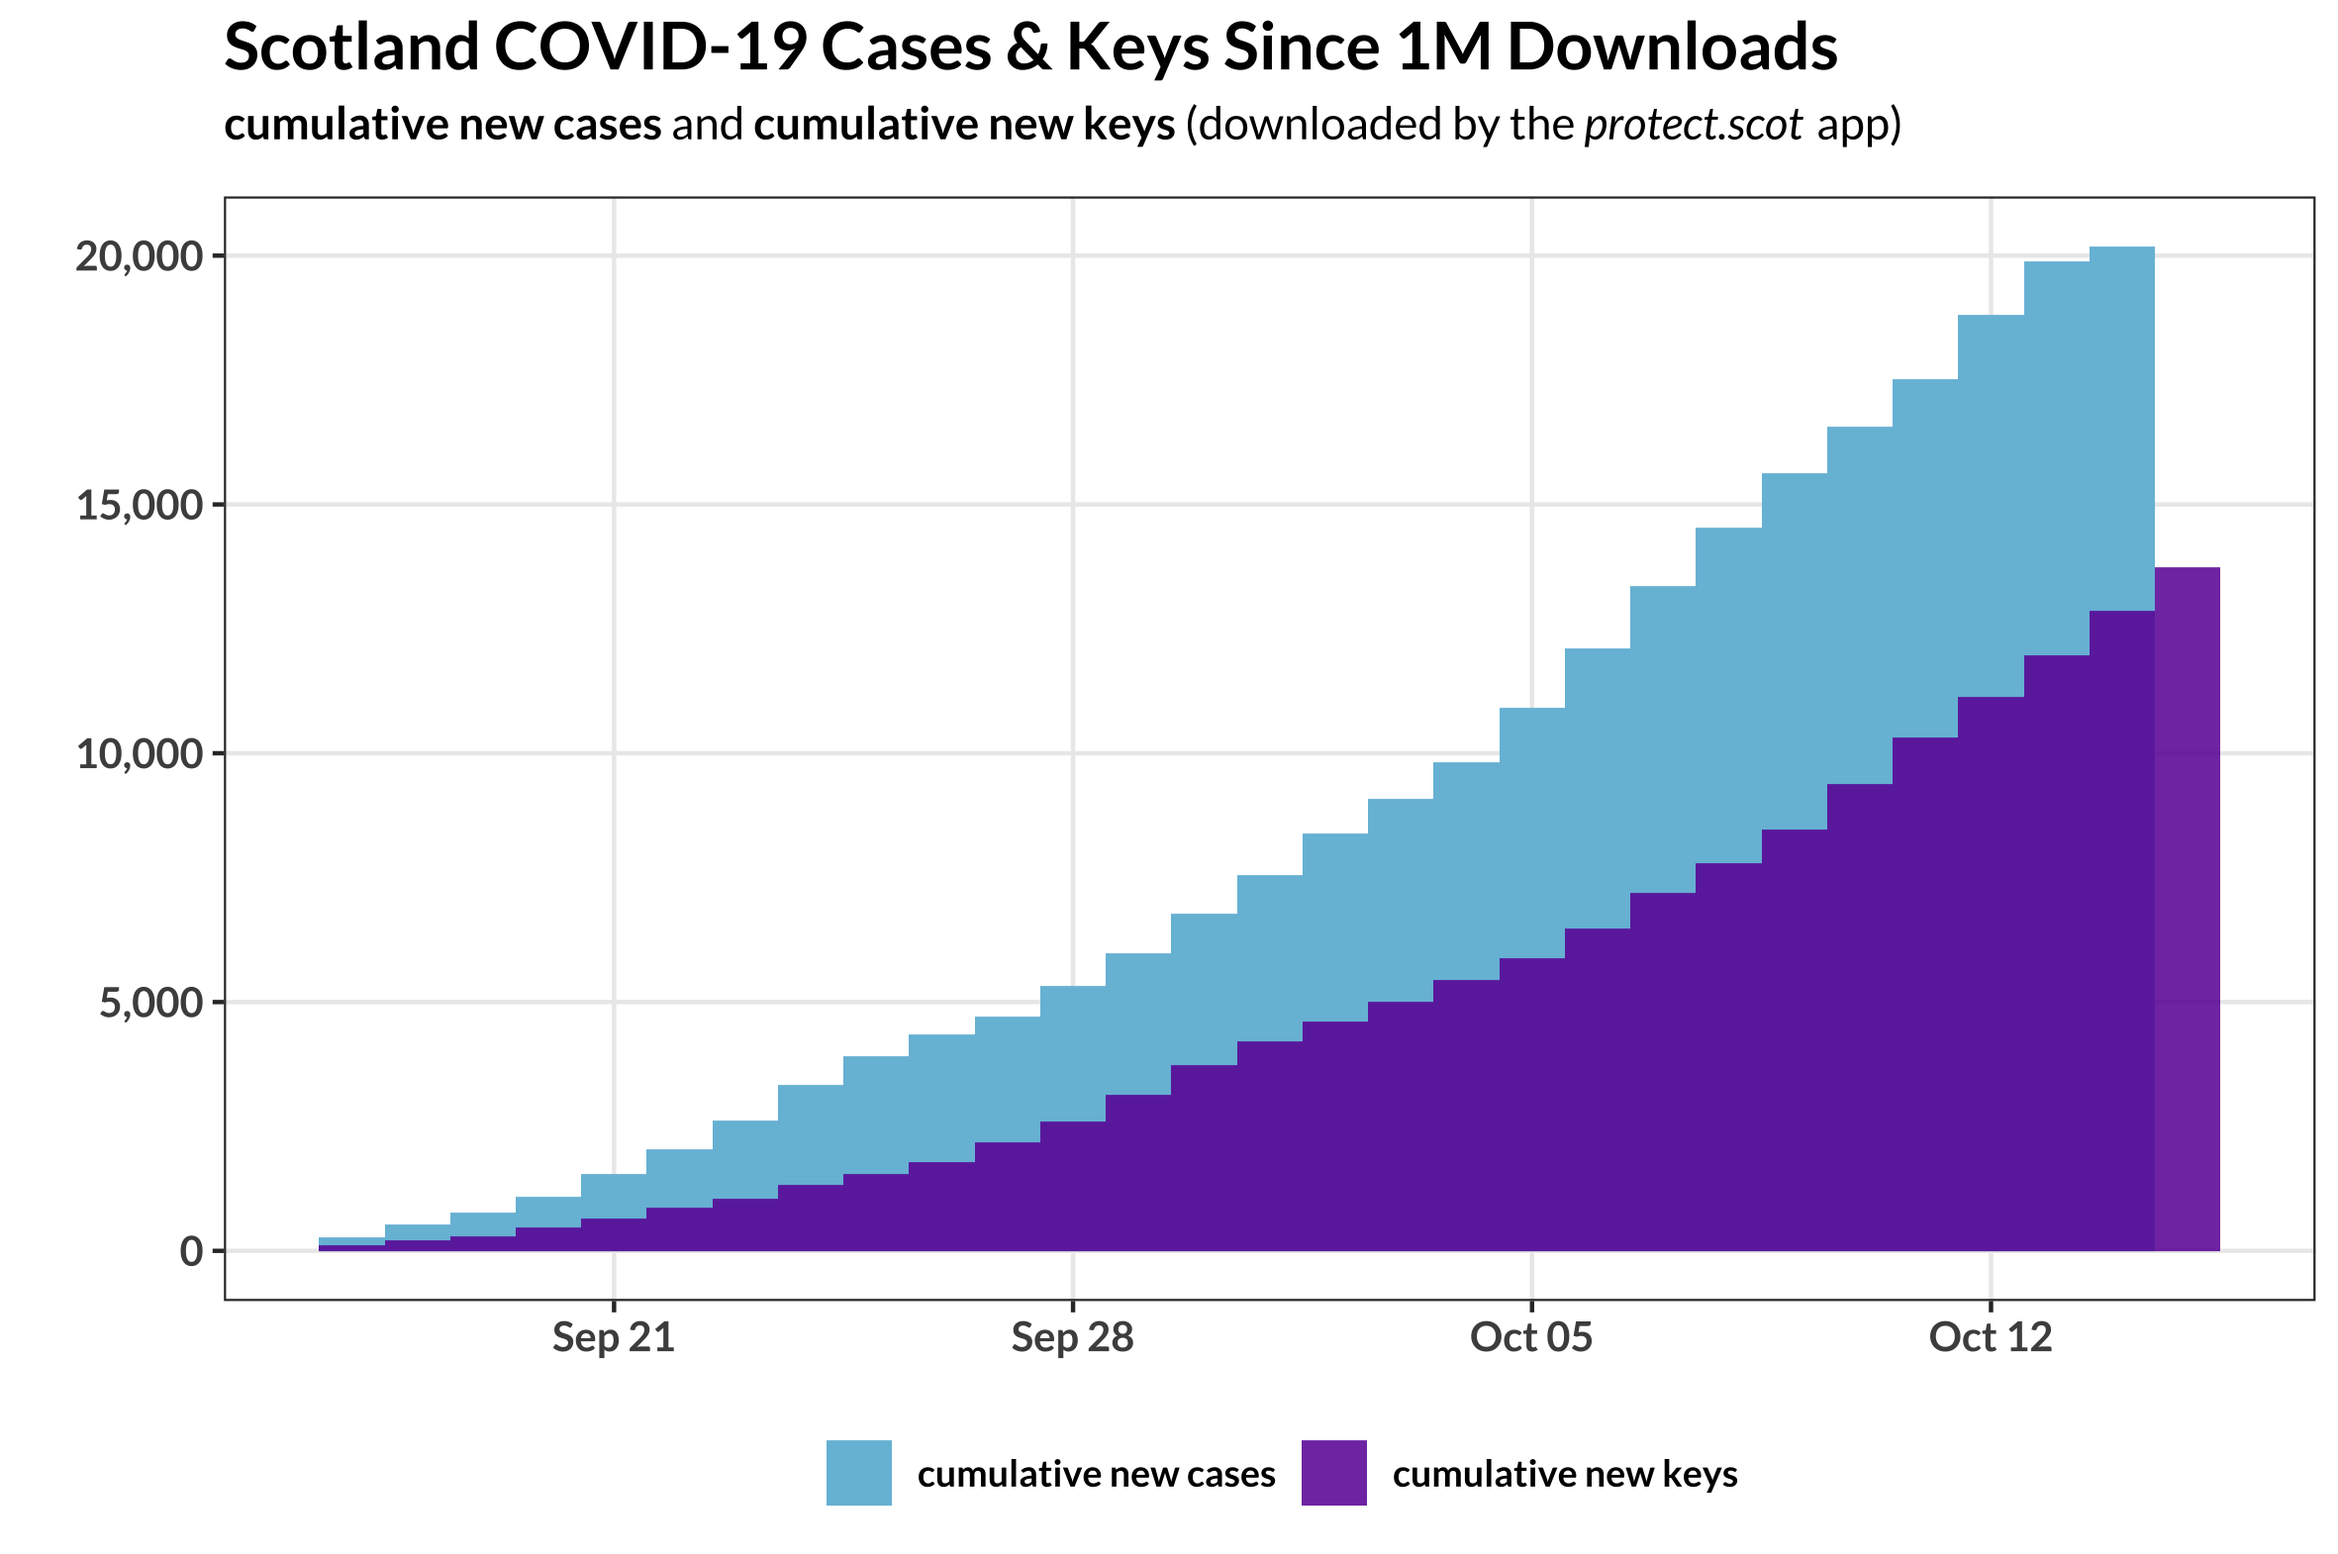
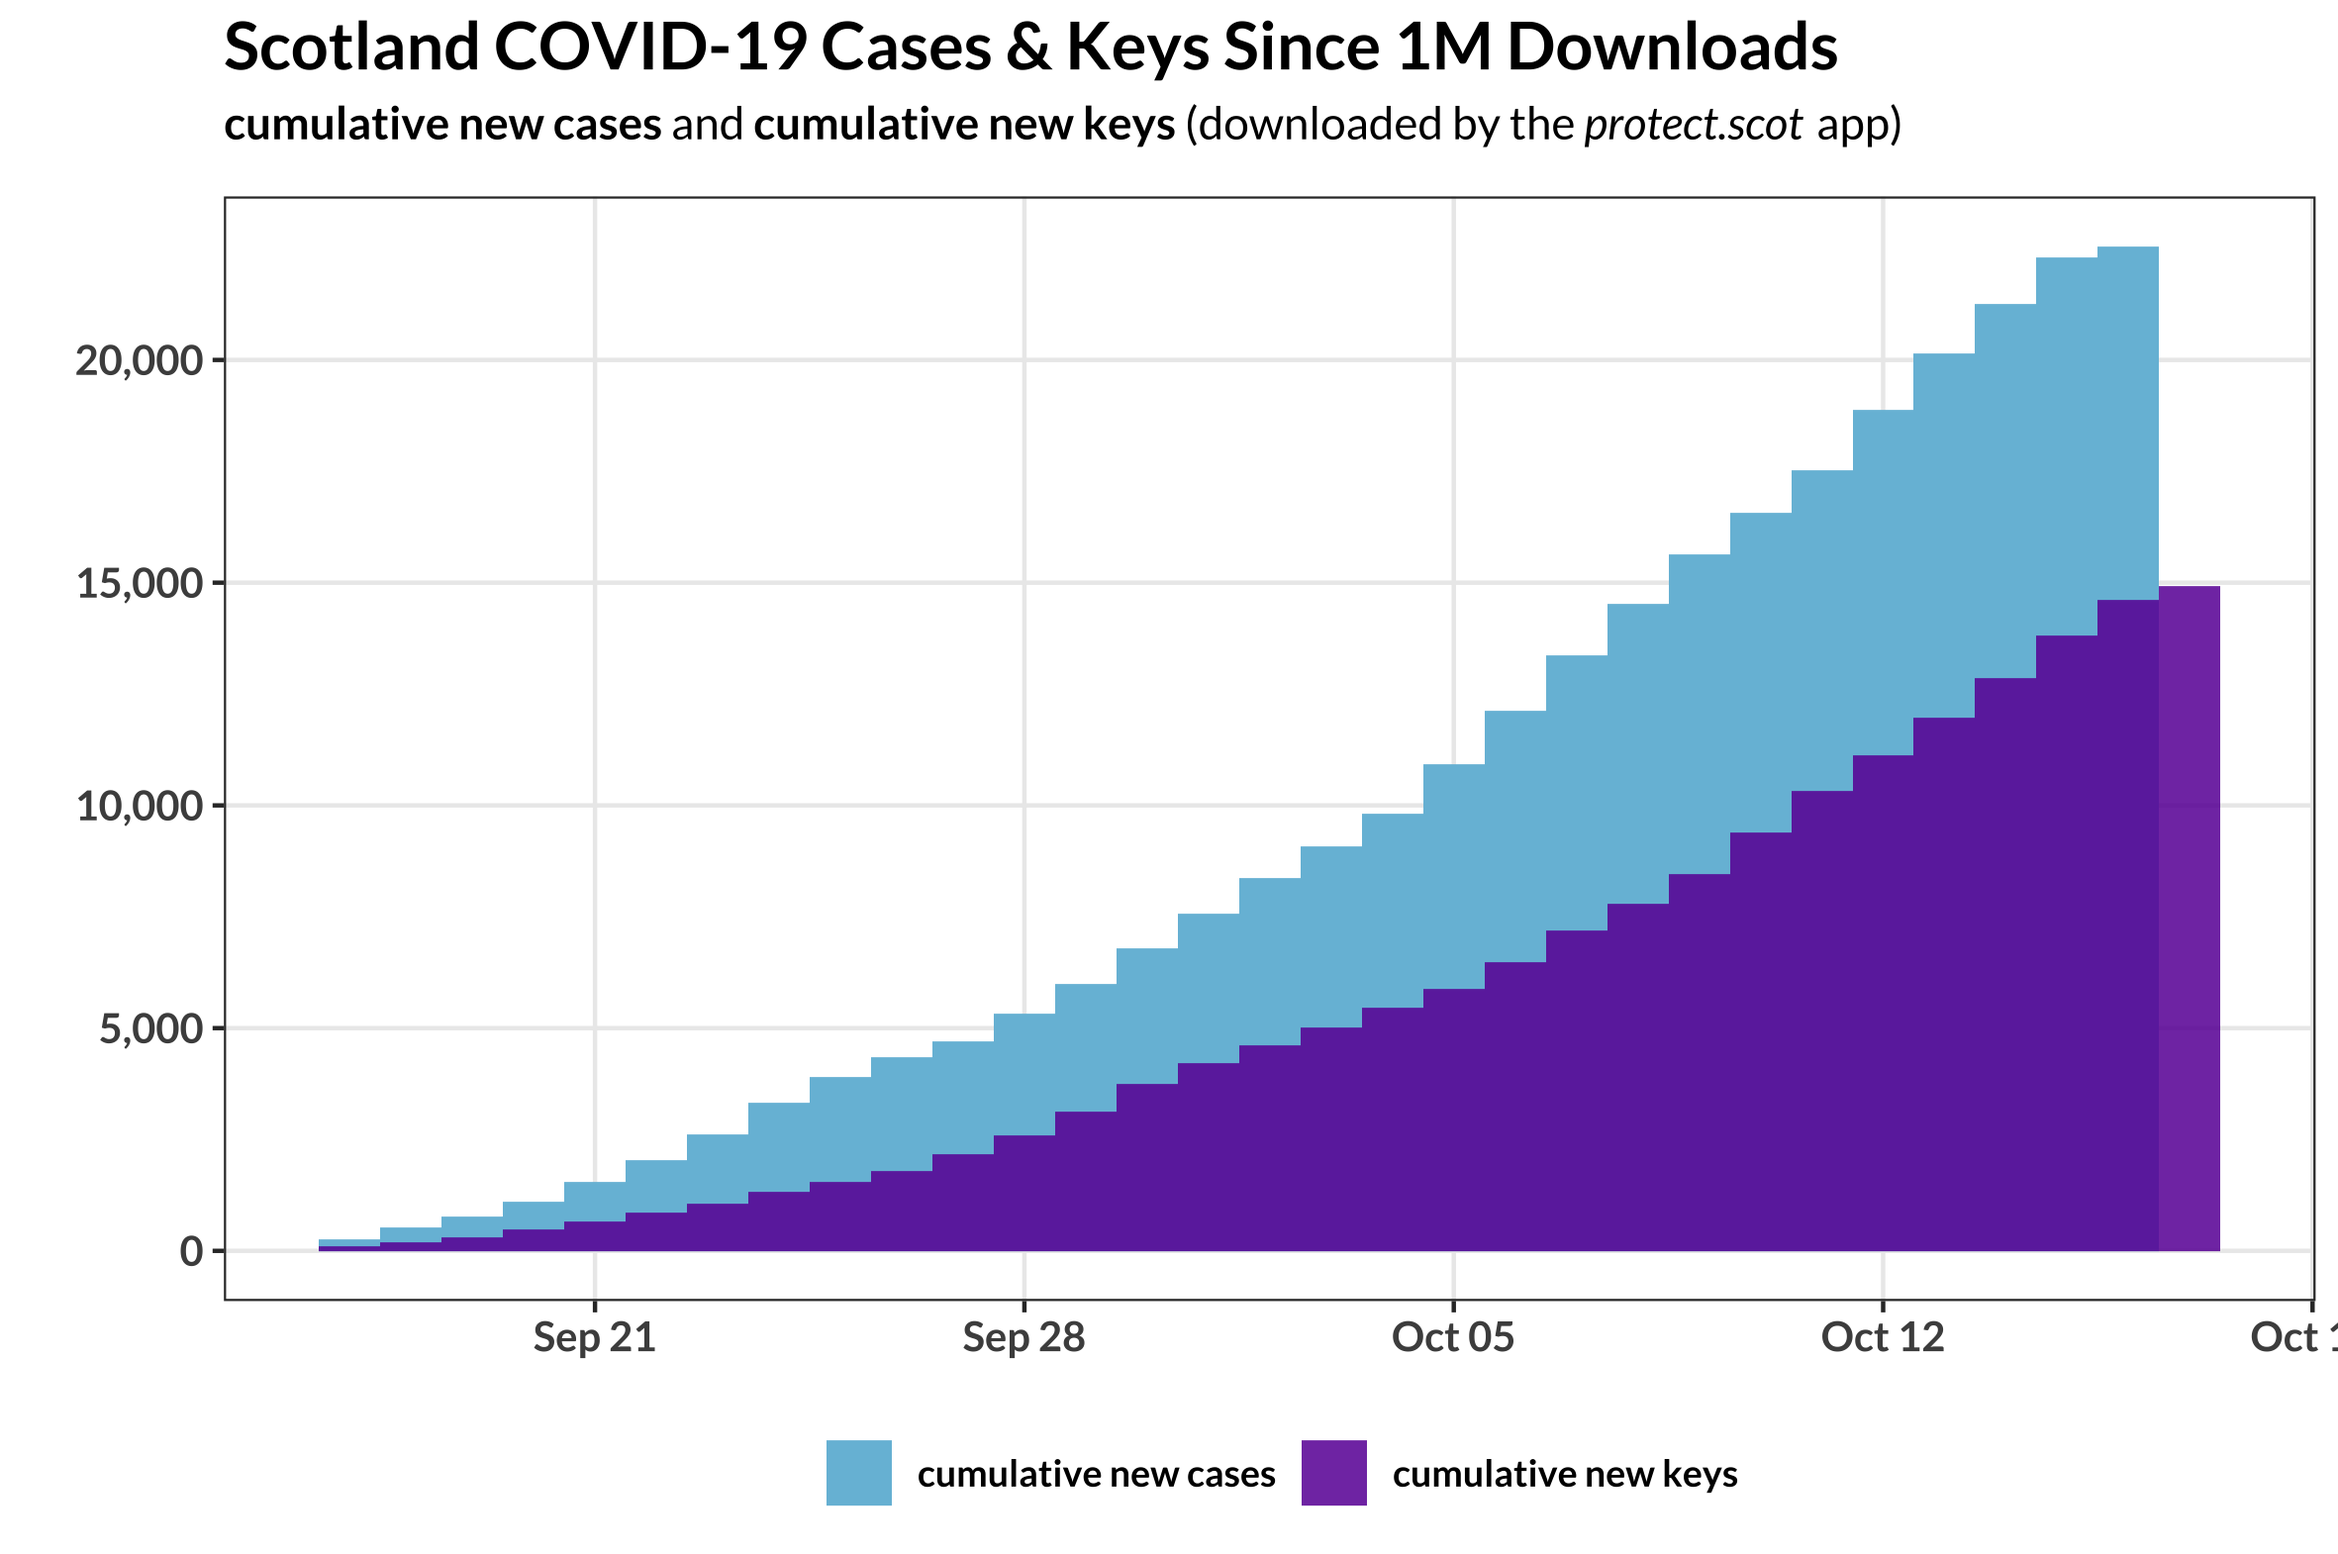
17/10 updates

diff --git a/README.md b/README.md
@@ -35,7 +35,7 @@ Here we can see the daily number of downloaded keys compared to the daily COVID-
 ![](/pics/plot_cases_keys.png)
 
 ## Cumulative Cases / Keys Since September 17th
-To compare the cumulative number of new cases to the cumulative number of new keys, we'll start from September 17th. This was the date the app reached one million downloads, which seems like as good a milestone as any. We can see that more than 55% of the new cases have been registered via the app since then.
+To compare the cumulative number of new cases to the cumulative number of new keys, we'll start from September 17th. This was the date the app reached one million downloads, which seems like as good a milestone as any. We can see that more than 60% of the new cases have been registered via the app since then.
 
 ![](/pics/plot_cum_cases_keys_sep17.png)
 
